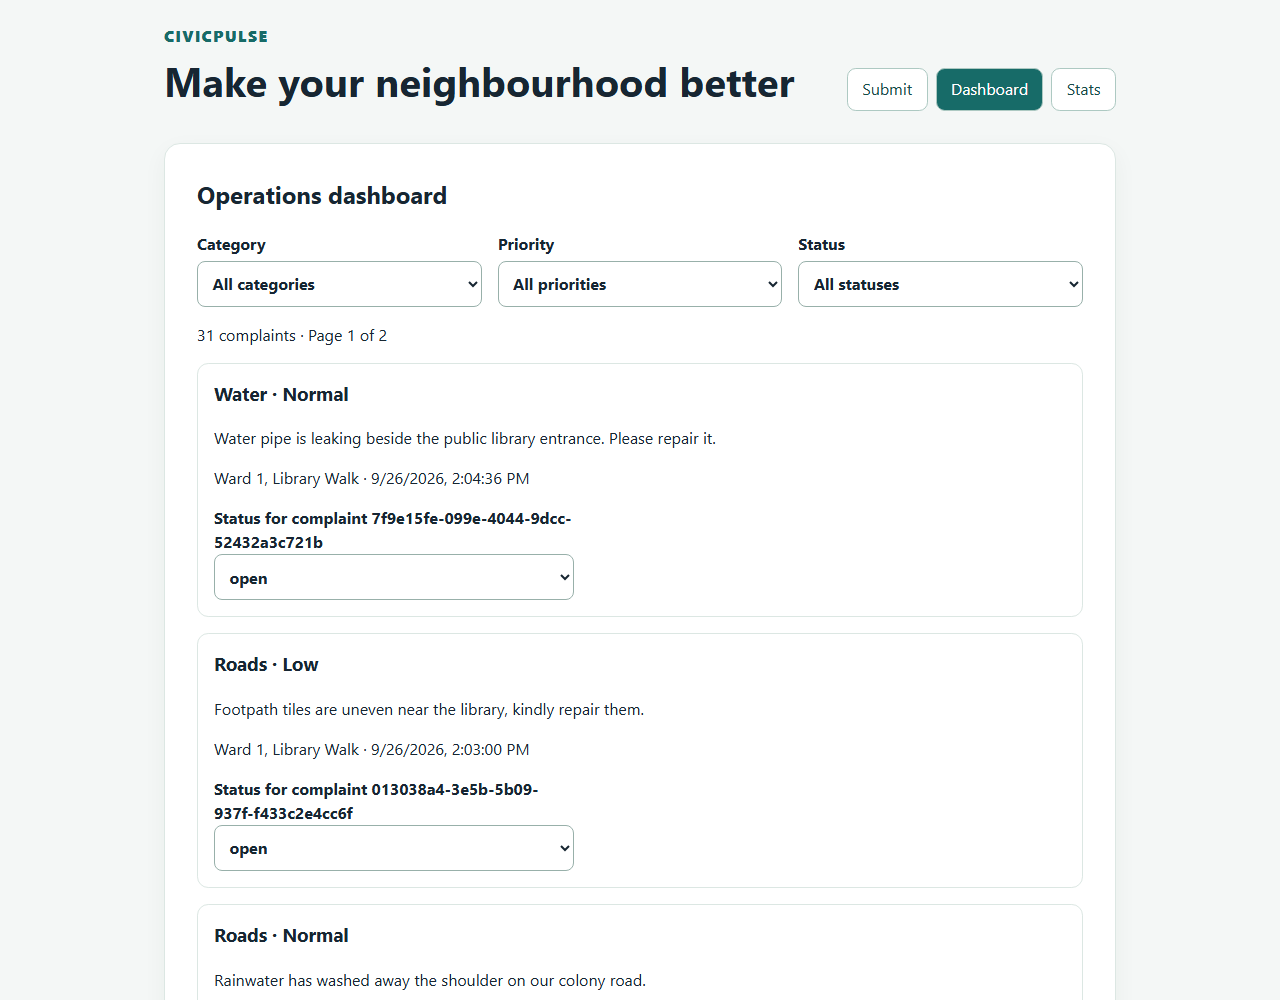
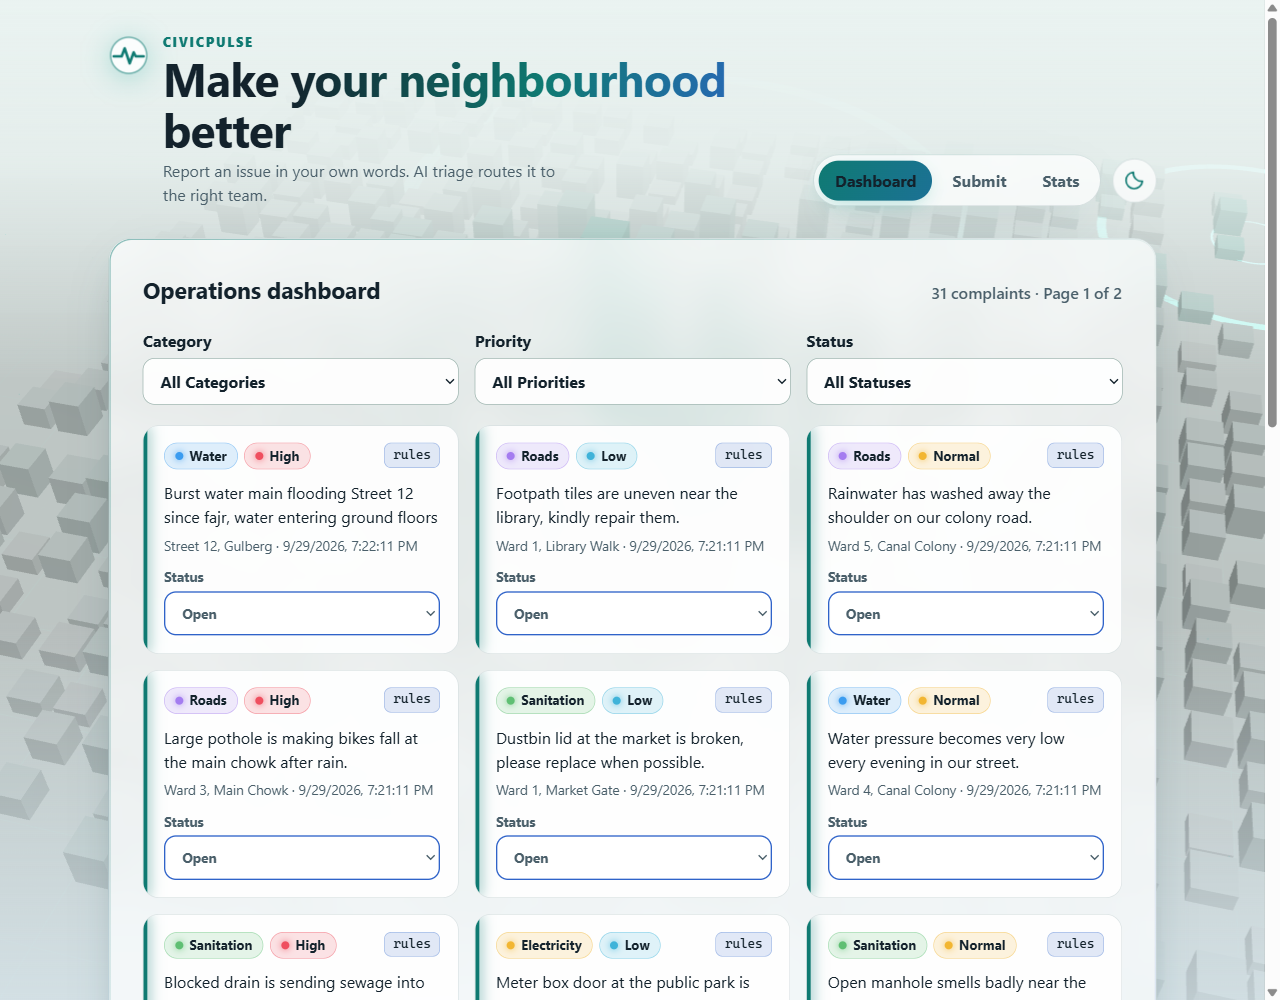
docs(evidence): recapture README screenshots for the animated UI
Refs #142

diff --git a/README.md b/README.md
@@ -280,22 +280,24 @@ Read the [security baseline](docs/SECURITY.md), [CI/CD guide](docs/CICD.md) and
 
 ## Screenshots and evidence
 
-The screenshots below were captured from a fresh `dev` clone using real PostgreSQL, Redis and rules
-triage: 30 seed complaints plus one submission, with no mocked browser responses. The
-[capture details](docs/evidence/screenshots-README.md) and
+The screenshots below show the animated interface (issue #142): a three.js city backdrop, a 3D stats
+chart and Motion transitions. They were captured from a separate Compose project with empty volumes,
+real PostgreSQL, Redis and rules triage: 30 seed complaints plus one submission, with no mocked
+browser responses. Without WebGL, on software rendering or with reduced motion, the same views use
+a static background. The [capture details](docs/evidence/screenshots-README.md) and the original
 [verification transcript](docs/evidence/screenshots-clean-clone-log.txt) describe the setup.
 
 ### Submit
 
-![Successful complaint submission and rules classification](docs/evidence/screenshots-submit.png)
+![Successful complaint submission, rules classification and the high-priority pulse in the 3D city](docs/evidence/screenshots-submit.png)
 
 ### Dashboard
 
-![Dashboard filters and stored complaints](docs/evidence/screenshots-dashboard.png)
+![Dashboard filters and stored complaints with category and priority badges](docs/evidence/screenshots-dashboard.png)
 
 ### Stats
 
-![31 complaints and a real Redis cache HIT](docs/evidence/screenshots-stats.png)
+![31 complaints, a real Redis cache HIT and the 3D category chart](docs/evidence/screenshots-stats.png)
 
 Additional evidence includes [load and rolling updates](docs/evidence/k8s-load-README.md),
 [rollback](docs/evidence/k8s-rollback-index.md), [PVC persistence](docs/evidence/k8s-pg-persistence.txt),

diff --git a/docs/evidence/screenshots-README.md b/docs/evidence/screenshots-README.md
@@ -9,6 +9,25 @@ Captured on Artfever's Windows machine, 2026-09-26, from a **new clone** of `dev
 Docker's existing image/build cache was available: this was a clean checkout/data test,
 not a measurement of cold Internet downloads or a newly installed operating system.
 
+## Recapture for the animated frontend — issue #142, 2026-09-29
+
+The three README PNGs were replaced after the frontend redesign. The earlier PNGs remain in Git
+history; the procedure below them describes that original capture.
+
+- Source: working tree of `feature/142-animated-3d-frontend`, built into a separate Compose project
+  (`COMPOSE_PROJECT_NAME=civicpulse-shots`, `FRONTEND_PORT=18080`, `BACKEND_PORT=18000`) with new
+  empty volumes. Migration/seed exited 0 and the list total was **30** before capture.
+- Browser: installed Google Chrome driven by `playwright-core`, headed so WebGL used the real GPU
+  (ANGLE, Intel UHD Graphics 620, Direct3D11). Viewports 1280×1080 (Submit), 1280×1000
+  (Dashboard) and 1280×1240 (Stats). The backdrop reported `data-mode="3d"`; about 30 frames per
+  second were measured on the city scene.
+- Flow: submitted the synthetic burst-water-main complaint (POST **201**, rules, water, high), opened
+  Dashboard (**31 complaints**), opened Stats (**MISS**), left and returned within the TTL (**HIT**).
+- Zero page errors and zero console errors. The temporary project and its volumes were removed.
+
+These captures show rules classification, live storage/cache and the new presentation. They do not
+demonstrate a hosted LLM, Ollama or fallback, and the submitted video still shows the earlier UI.
+
 ## Compose procedure and results
 
 1. `git clone --branch dev --single-branch https://github.com/TahaSohail-Goat/Assignment1_SCD.git D:\CivicPulse-ops\clean-clone-55`.
